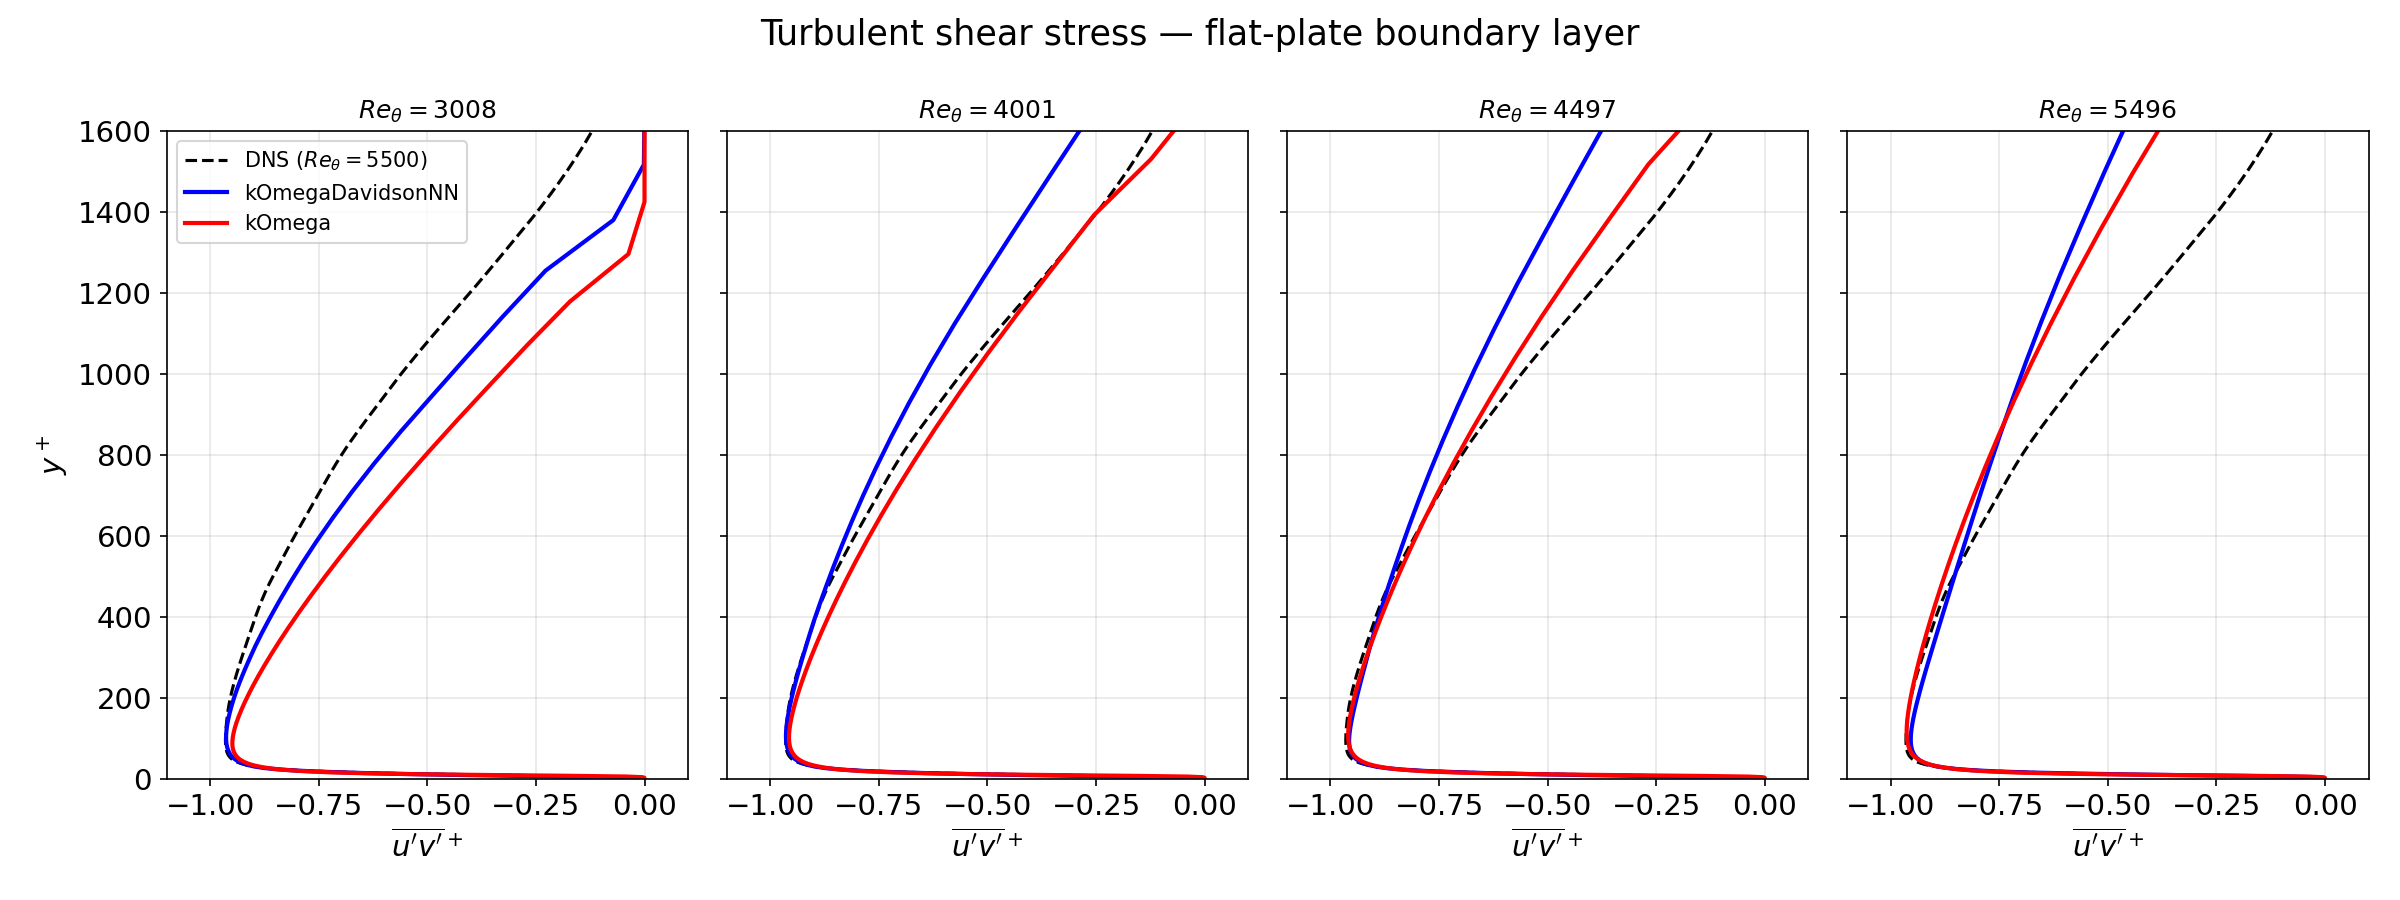
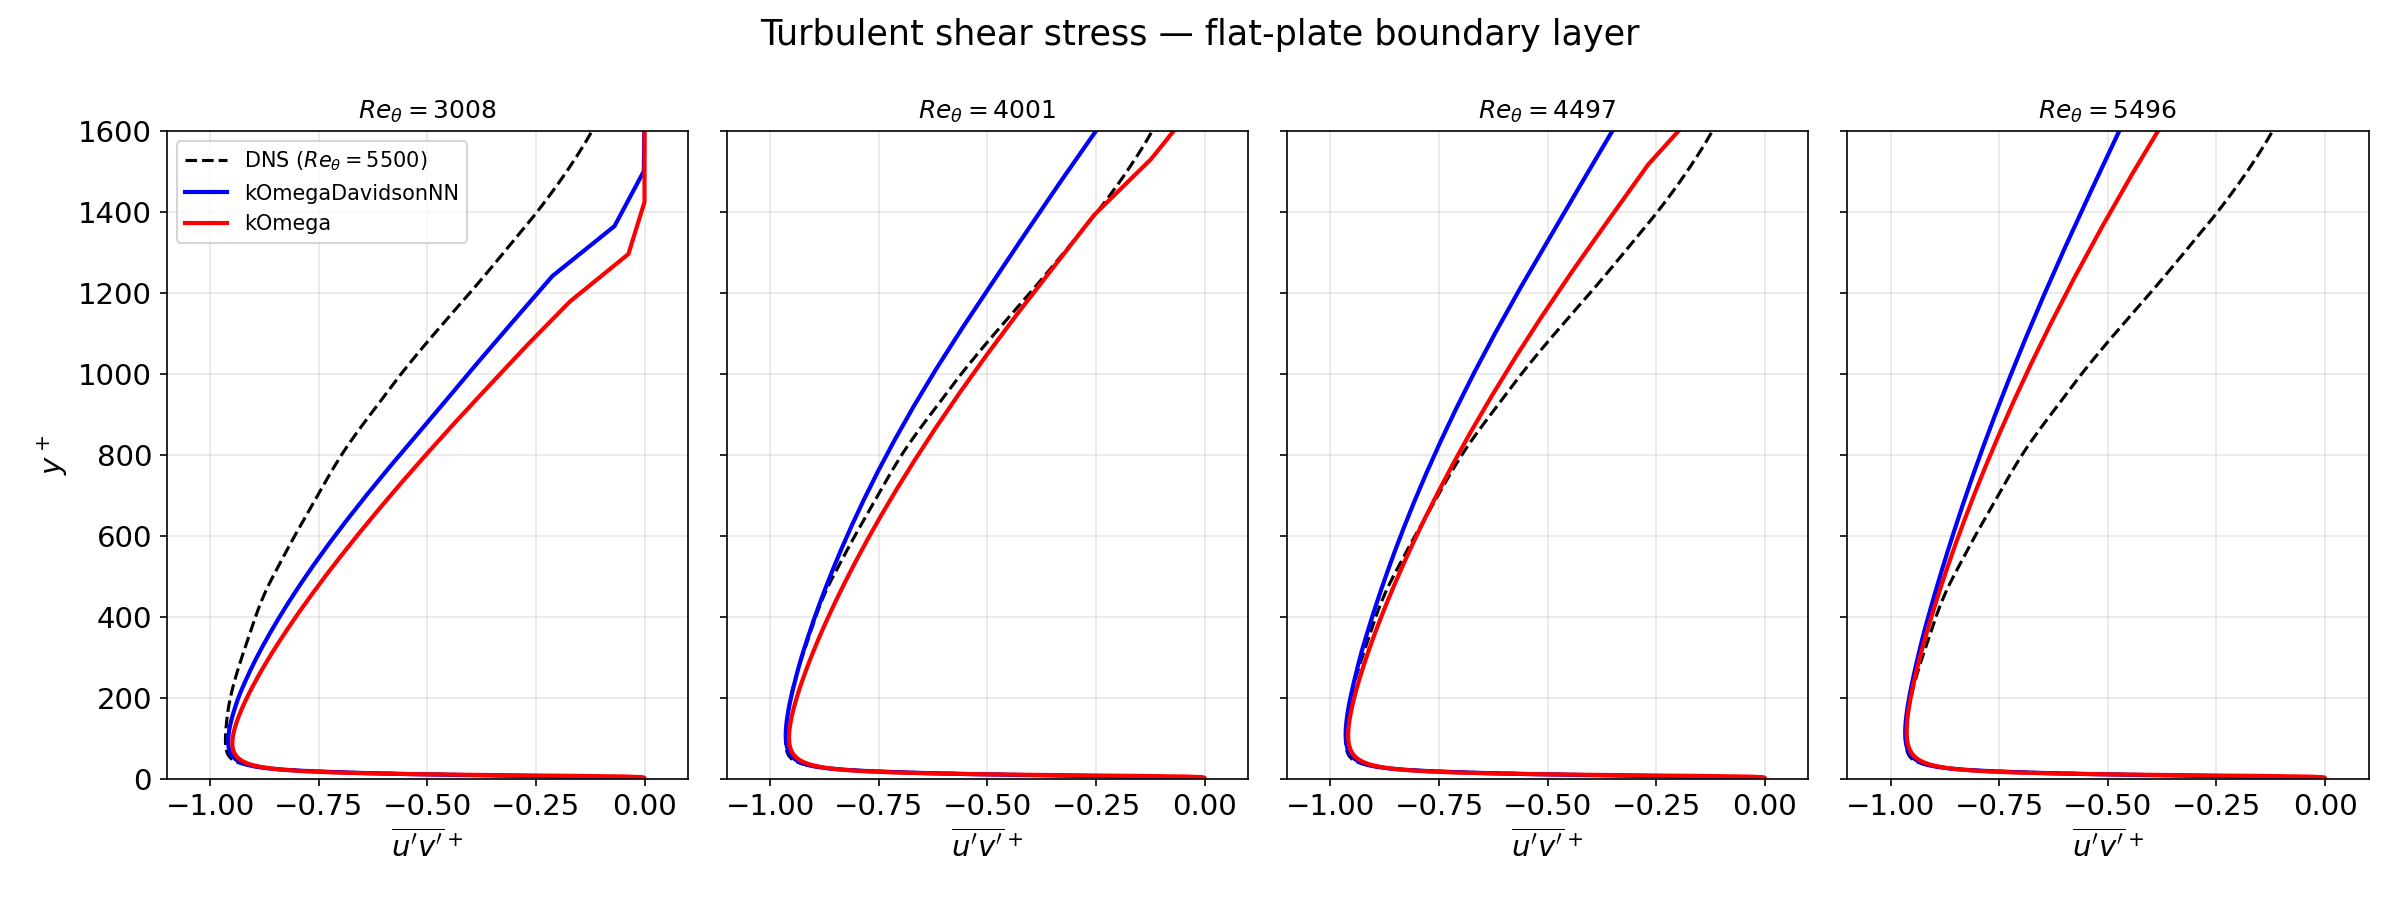
flatPlate: rerun with per-column u_tau model; kink at Re_theta~4750-4900 resolved
Rebuilt src/kOmegaDavidsonNN.C (per-column friction velocity via
wallDistAddressing, matching Davidson's reference implementation instead
of the previous single domain-wide average) and reran kOmega and
kOmegaDavidsonNN end to end.

This resolves a previously-reported "genuine converged steady-state"
near-discontinuity in near-wall k/nu_t/NN-coefficients around
Re_theta~4750-4900: that transition was actually caused by uTauGlobal
being least accurate at the highest-Re_theta (farthest-from-mean)
station, exactly where it appeared. Cf_vs_Retheta.png is now smooth and
monotonic across Re_theta=3000-5000, and the previously-anomalous last
panel of Uplus/kplus/uv_profiles.png now matches the trend of the other
three stations. Confirmed by diffing against the previously-committed
plots. Updated README.md's "Known open finding" and "Known limitations"
sections accordingly.

Unrelated/unchanged: kOmegaDavidsonNN still runs higher Cf/k+/-u'v'+ than
kOmega and DNS in the outer boundary layer, consistent with the
established NN-raises-k/nu_t finding from channelFlow5200 and pitzDaily.

diff --git a/README.md b/README.md
@@ -150,22 +150,25 @@ axis) and C_ω2,NN (right axis) against y/δ₉₉ at each station — all five
 now structurally match Davidson's Fig. 12(a)-(e) rather than the differently
 axed/binned plots this port previously produced.
 
-**Known open finding**: around Re_θ≈4750–4900, `kOmegaDavidsonNN` shows a
-sharp (near-discontinuous) transition in near-wall k, ν_t, and the NN
-coefficients — a ~3× collapse in k over about 4 cells, driven by the
-σ_k,NN/C_k,NN/C_ω2,NN ↔ k feedback. This is confirmed to be a genuine
-converged steady-state property of the coupled model, not a relaxation
-artifact: it appears identically (same location, same magnitude) whether
-the EWMA averaging window (Davidson Eq. 18) is his flat-plate default
-(`ewmaM=500`) or his channel-flow value (`ewmaM=3000`), run to full
-convergence in each case — `ewmaM` controls how fast the solution *reaches*
-its steady state, not what that steady state *is*. (An earlier version of
-this note claimed `ewmaM=3000` smoothed the transition away; that was
-comparing a fully-converged `ewmaM=500` run against an under-converged
-`ewmaM=3000` one that only looked smoother because it hadn't caught up yet
-— wrong comparison, now corrected.) This case keeps the default `ewmaM=500`,
-since 3000 gives an identical answer for ~6× the iterations. See "Known
-limitations" below.
+**Resolved finding (was "Known open finding")**: an earlier version of this
+section reported a sharp (near-discontinuous) transition in near-wall k,
+ν_t, and the NN coefficients around Re_θ≈4750–4900 — a ~3× collapse in k
+over about 4 cells — and, after ruling out the EWMA averaging window
+(Davidson Eq. 18) as the cause, concluded it was "a genuine converged
+steady-state property of the coupled model". That conclusion was wrong: the
+real cause was `uTauGlobal`, the single domain-wide-averaged friction
+velocity then used to normalise the NN's (x0,x1) inputs (see "Known
+limitations" below) — a fair approximation near the mesh's mean Reynolds
+number but progressively worse for stations far from it, worst at the
+highest-Re_θ station, exactly where the transition appeared. Rerunning
+after switching to per-column u_τ (matching Davidson's own method) removes
+it completely: `Cf_vs_Retheta.png` is now smooth and monotonic across the
+whole Re_θ=3000–5000 range, and the previously-anomalous last panel of
+`kplus_profiles.png`/`Uplus_profiles.png`/`uv_profiles.png` now follows the
+same trend as the other three stations. Confirmed by diffing freshly
+regenerated plots against the previously-committed ones. This case keeps
+the default `ewmaM=500` (Davidson's stated default), since 3000 reaches the
+identical answer for ~6× the iterations.
 
 ### pitzDaily sub-cases
 
@@ -496,22 +499,18 @@ relaxationFactors
   sub-cases" section above. `pitzDaily` (also a multi/separated-wall case)
   inherits the same per-column change but has not yet been specifically
   re-validated against it.
-- **`flatPlate`'s σ_k,NN/C_k,NN/C_ω2,NN ↔ k feedback has a genuine
-  near-discontinuous transition around Re_θ≈4750–4900**, independent of the
-  EWMA averaging window. Near-wall k, ν_t, and the NN coefficients undergo a
-  ~3× collapse over a handful of cells; confirmed to persist identically
-  (same location, same magnitude) whether `ewmaM` (Davidson Eq. 18) is his
-  flat-plate default (500) or his channel-flow value (3000), each run to
-  full convergence — ruling out a relaxation-timescale artifact and pointing
-  to a genuine steady-state property of the coupled model in this regime.
-  Davidson's own note that this class of instability ("slow oscillations...
-  related to the strong elliptic character") doesn't occur in flat-plate
-  flow is about *temporal* oscillation at a point; this is a distinct
-  *spatial* transition that only appears once the boundary layer develops
-  far enough downstream — plausibly further than his own 92δ_in domain
-  reaches, which may be why it isn't reported in the paper. This case keeps
-  `ewmaM=500` (Davidson's stated default), since 3000 reaches the identical
-  answer for ~6× the iterations; see the "flatPlate sub-cases" section above.
+- **`flatPlate`'s previously-reported Re_θ≈4750–4900 near-discontinuous
+  transition was a u_τ normalisation artifact, not a genuine model
+  property — now fixed.** An earlier investigation ruled out the EWMA
+  averaging window as the cause and concluded the ~3× near-wall k collapse
+  there was "a genuine converged steady-state property of the coupled
+  model". That conclusion didn't hold up: the actual cause was the
+  domain-wide-averaged `uTauGlobal` described above, which is least
+  accurate at the highest-Re_θ (farthest-from-mean) station — exactly where
+  the transition appeared. Switching to per-column u_τ removes it entirely;
+  see the "flatPlate sub-cases" section above for the confirmed before/after
+  comparison. This case keeps `ewmaM=500` (Davidson's stated default), since
+  3000 reaches the identical answer for ~6× the iterations.
 
 ## Citation
 
